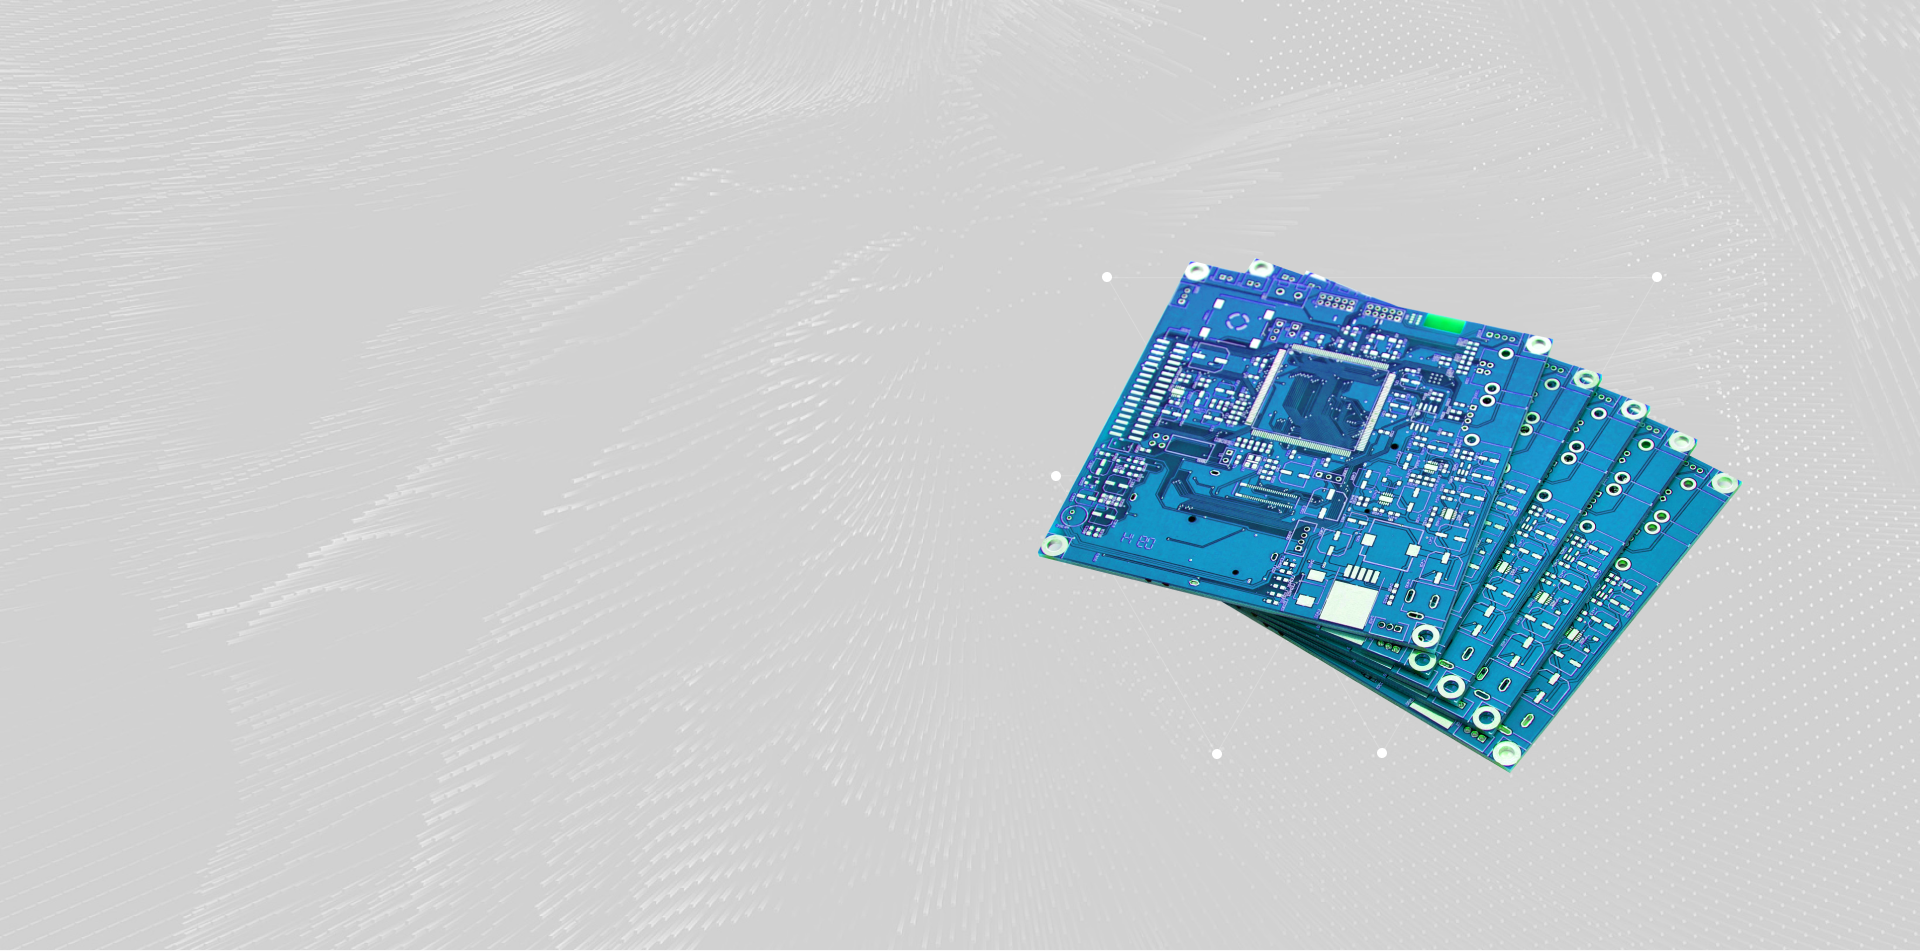
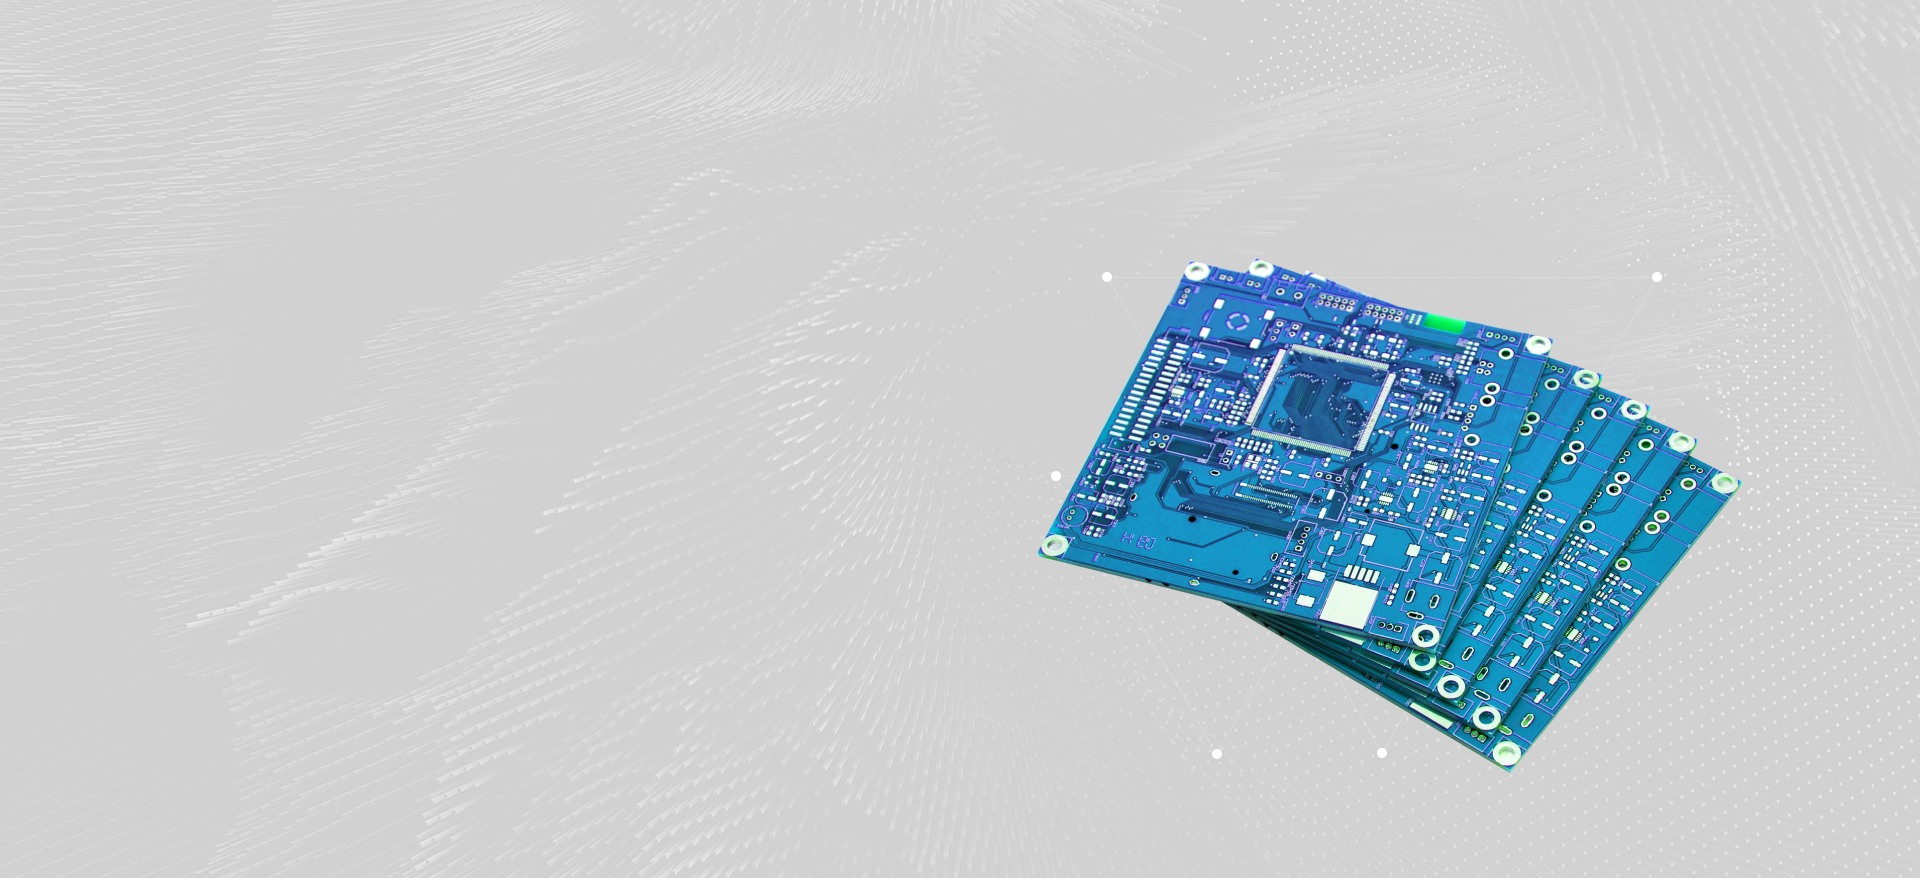
Добавляет стили шапка до 768

Changed region(s): [[0.5312, 0.2758, 0.9062, 0.8888], [0.0, 0.9807, 1.0, 1.0]]

diff --git a/source/sass/block/header.scss b/source/sass/block/header.scss
@@ -11,6 +11,11 @@
   @media (min-resolution: 2dppx) {
     background-image: url("../img/header2x.png");
   }
+
+  @media (max-width: $m-end) {
+    padding-top: 21px;
+    padding-bottom: 72px;
+  }
 }
 
 .header__top {
@@ -41,6 +46,10 @@
   &:first-child {
     margin-left: 0;
   }
+
+  @media (max-width: $m-end) {
+    margin-left: 24px;
+  }
 }
 
 .header__nav-link {
@@ -53,8 +62,26 @@
   align-items: center;
   justify-content: space-between;
 
-  span {
-    padding-left: 17px;
+  @media (max-width: $m-end) {
+    padding: 10px 0 10px 10px;
+  }
+}
+
+.header__icon {
+  @media (max-width: $m-end) {
+    @include size(25px, 19px);
+
+    &--tel {
+      @include size(24px, 24px);
+    }
+  }
+}
+
+.header__nav-link span {
+  padding-left: 17px;
+
+  @media (max-width: $m-end) {
+    display: none;
   }
 }
 
@@ -73,10 +100,18 @@
   border-radius: 5px;
   padding: 13px 0;
   margin-left: 42px;
+
+  @media (max-width: $m-end) {
+    display: none;
+  }
 }
 
 .header__bottom {
   padding-top: 230px;
+
+  @media (max-width: $m-end) {
+    padding-top: 116px;
+  }
 }
 
 .header__bottom h1 {
@@ -87,6 +122,13 @@
   letter-spacing: 0.07em;
   text-transform: uppercase;
   margin: 0 0 29px;
+
+  @media (max-width: $m-end) {
+    font-size: 60px;
+    line-height: 70px;
+    padding: 0 35% 0 8.9%;
+  }
+
 }
 
 .header__bottom p {
@@ -100,12 +142,26 @@
   padding-right: 49%;
   margin-bottom: 45px;
 
-  &::before{
+  &::before {
     @include pseudo();
     @include size(66px, 2px);
     background-color: $white;
     left: 0;
     top: 16px;
+  }
+
+  @media (max-width: $m-end) {
+    font-size: 18px;
+    line-height: 156.8%;
+    padding-left: 16%;
+    padding-right: 36%;
+    margin-bottom: 54px;
+
+    &::before {
+      @include size(33px, 2px);
+      left: 9%;
+      top: 16px;
+    }
   }
 }
 
@@ -123,10 +179,16 @@
   margin-left: 6.6%;
   padding: 17px 0;
   margin-bottom: 94px;
+  border-radius: 5px;
+
+  @media (max-width: $m-end) {
+    margin-left: 15.8%;
+    width: 379px;
+  }
 }
 
-.header__scroll{
- transform: rotate(180deg);
+.header__scroll {
+  transform: rotate(180deg);
   font-family: $mono;
   font-weight: normal;
   font-size: 14px;
@@ -137,4 +199,7 @@
   min-width: 0;
   word-break: break-word;
 
+  @media (max-width: $m-end) {
+    display: none;
+  }
 }

diff --git a/source/index.html b/source/index.html
@@ -14,11 +14,11 @@
 					<nav class="header__nav">
 						<ul class="header__nav-list">
 							<li class="header__nav-item"><a class="header__nav-link">
-									<svg width="19" height="14" role="img" aria-label="Почта">
+									<svg class="header__icon" width="19" height="14" role="img" aria-label="Почта">
 										<use xlink:href="./img/sprite.svg#icon-email"></use>
 									</svg><span>info@sd.ru</span></a></li>
 							<li class="header__nav-item"><a class="header__nav-link">
-									<svg width="18" height="18" role="img" aria-label="Телефон">
+									<svg class="header__icon header__icon--tel" width="18" height="18" role="img" aria-label="Телефон">
 										<use xlink:href="./img/sprite.svg#icon-phone"></use>
 									</svg><span>+7 (495) 000 52 52</span></a></li>
 						</ul>

diff --git a/source/sass/block/container.scss b/source/sass/block/container.scss
@@ -6,10 +6,10 @@
 
   @media (max-width: $m-end) {
     width: 100%;
-    padding: 3.24%;
+    padding: 0 3.24%;
   }
 
   @media (max-width: $s-end) {
-    padding: 4.68%;
+    padding: 0 4.68%;
   }
 }
